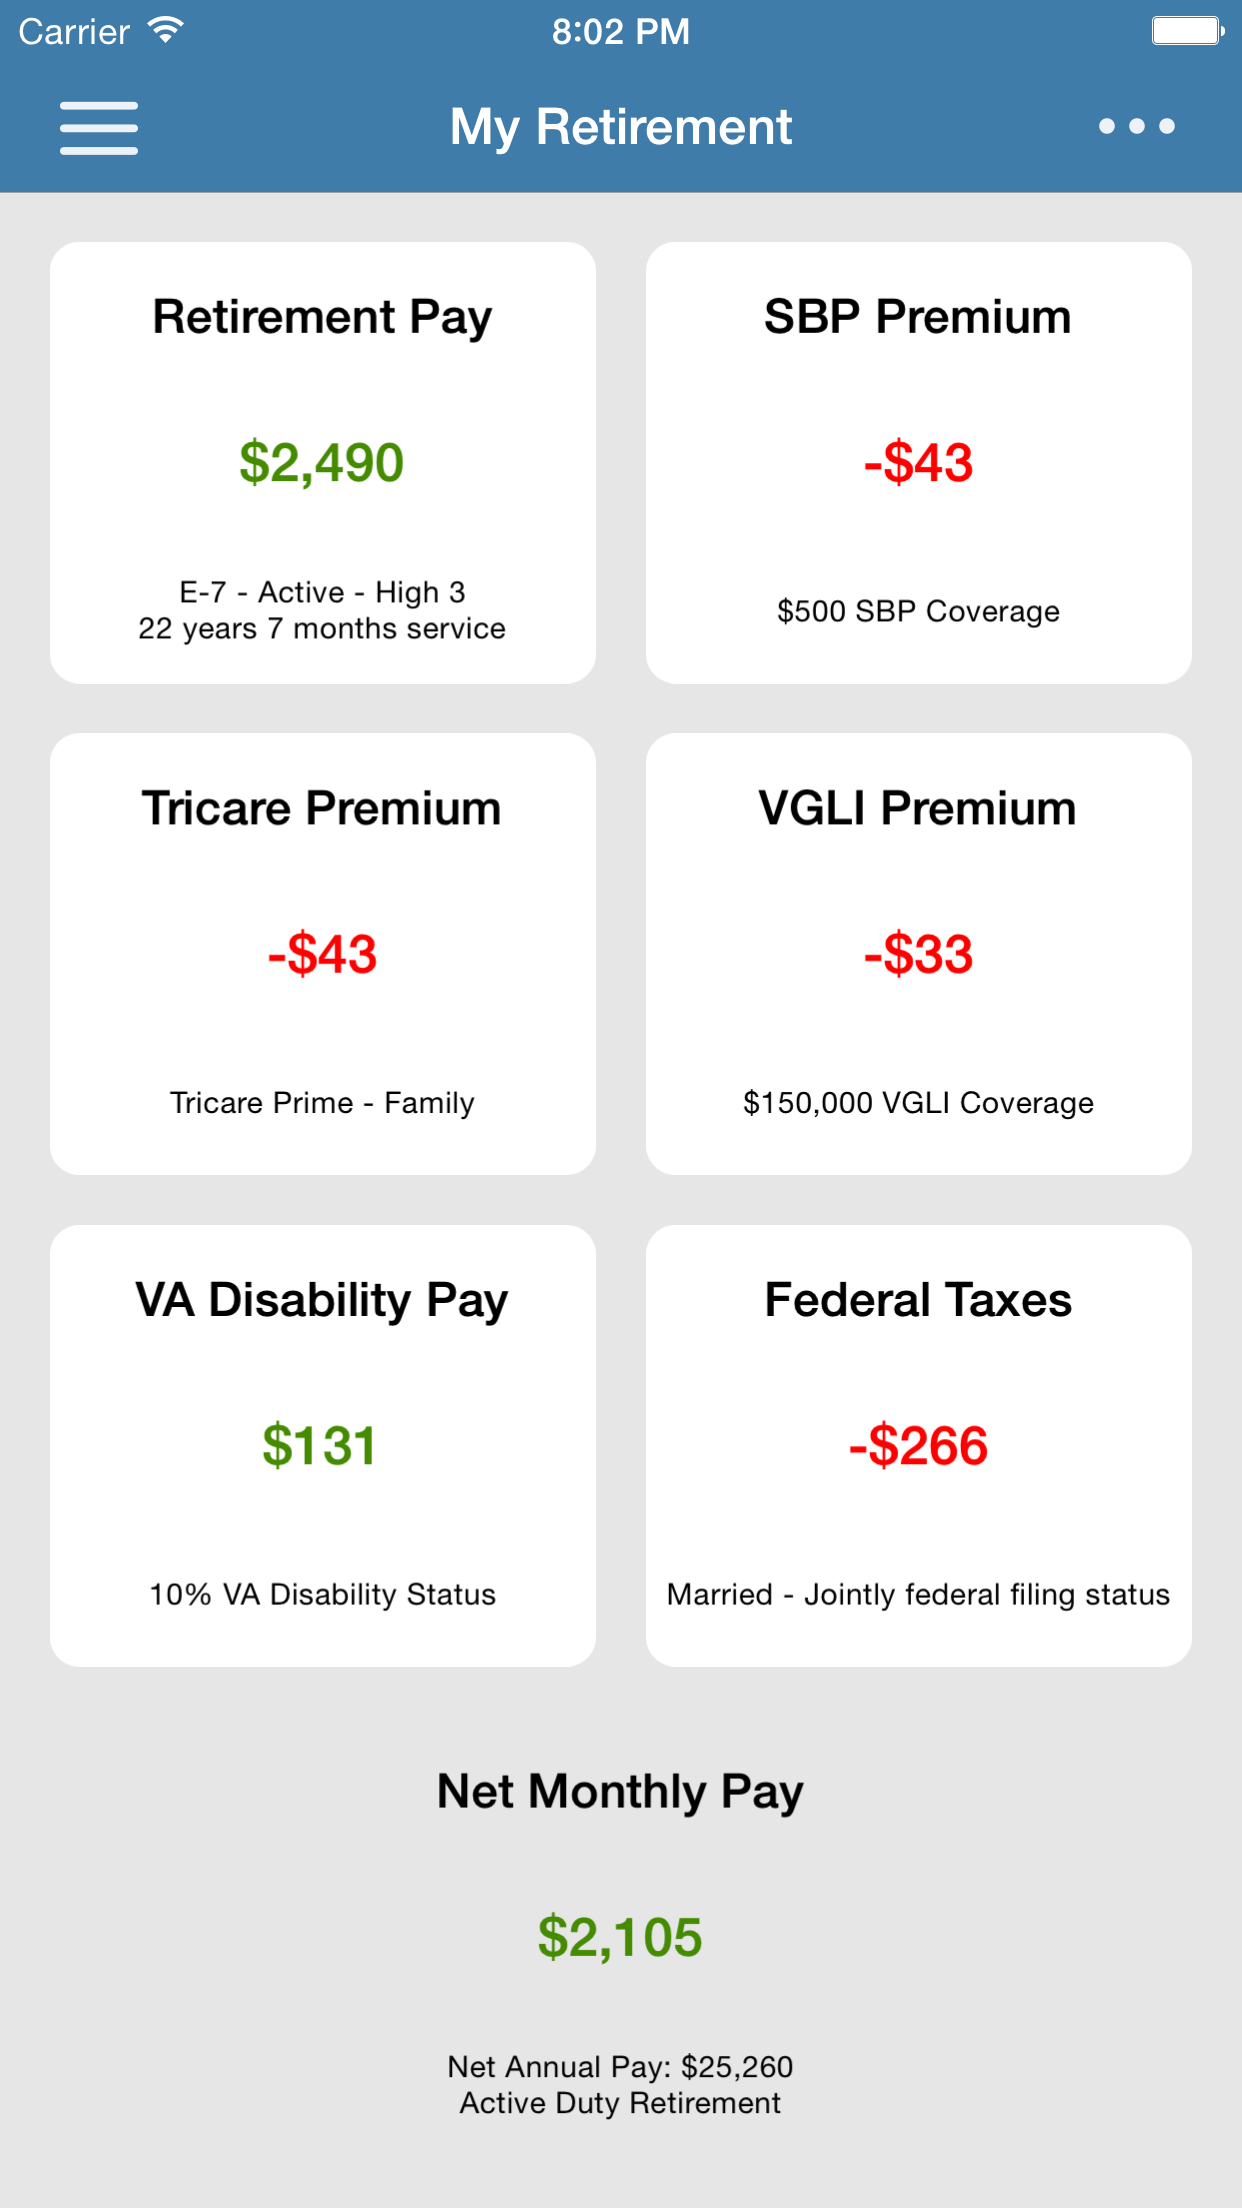
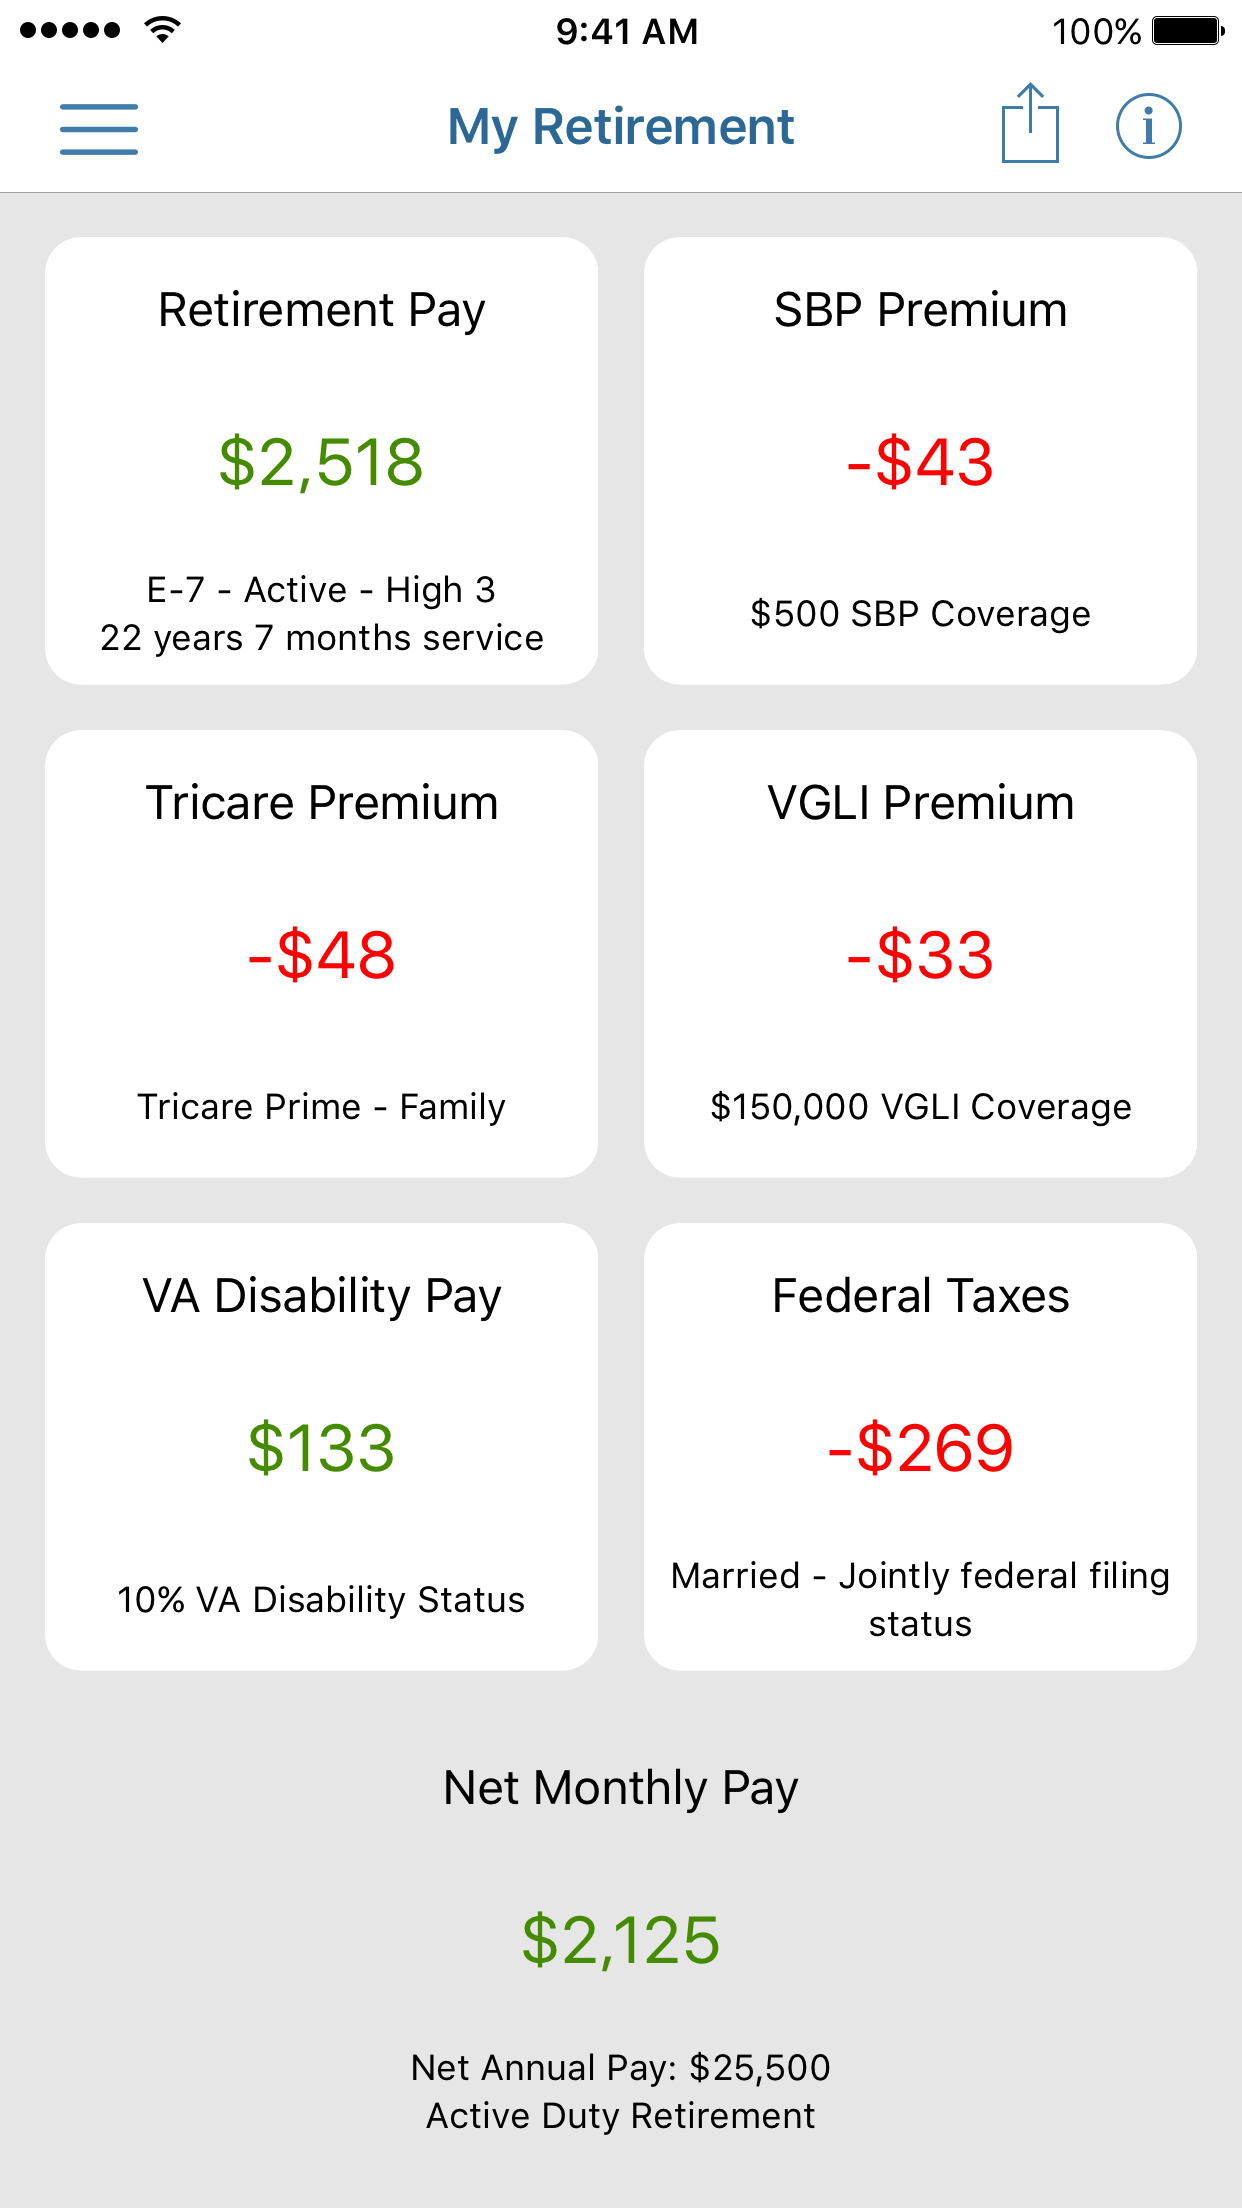
Updating screen shots and some updated CSS for better styling.

diff --git a/_sass/_base.scss b/_sass/_base.scss
@@ -52,7 +52,8 @@
         text-align: left;
         display: inline-block;
         padding-top: $spacing-unit;
-        
+        flex: 1 1 50%;
+
         ul {
             display: block;
             margin: 0;
@@ -62,7 +63,8 @@
     }
 
     div.row {
-        display: inline-block;
+        display: flex;
+        flex-wrap: wrap;
     }
 
     figure > img {
@@ -71,6 +73,16 @@
 
     figcaption {
         font-size: $small-font-size;
+    }
+
+    .screen-shots {
+        display: flex;
+        justify-content: flex-start;
+        overflow-y: auto;
+
+        .screen-shot {
+            margin: 5px;
+        }
     }
 
 /* Lists
@@ -174,6 +186,14 @@
             padding-right: $spacing-unit / 2;
             padding-left: $spacing-unit / 2;
         }
+
+        @media only screen and (max-width: 1024px) {
+            max-width: 85%;
+        }
+
+        @media only screen and (max-width: 768px) {
+            max-width: 100%;
+        }
     }
 
 /* Clear Fix
@@ -200,7 +220,7 @@
     }
 
     :not(.highlight)>table tr {
-        background-color: #fff;
+        background-color: transparent;
         border-top: 0px solid #ccc
     }
 

diff --git a/css/main.scss b/css/main.scss
@@ -14,7 +14,7 @@ $spacing-unit:     30px;
 
 $text-color:       #454545;
 $background-color: #FFF;
-$brand-color:      #40A8C9;
+$brand-color:      #3aafcd;
 
 $grey-color:       #828282;
 $grey-color-light: lighten($grey-color, 30%);

diff --git a/index.md b/index.md
@@ -35,19 +35,16 @@ layout: default
 </div>
 </div>
 
-{::comment}
-WHY CAN I NOT GET THIS TO WORK???
-![icon](/assets/military_retire_icon.png)
-
-## Military Retirement will calculate:
-- RETIREMENT PAY : Based on Rank, Years and Months of Service, and Date of Retirement 
-- SURVIVOR BENEFIT PLAN : Benefit and Premium 
-- TRICARE MEDICAL INSURANCE : Options and Premium 
-- DISABILITY PAY : Based on disability rating 
-- VETERANS GROUP LIFE INSURANCE : Coverage and Premium 
-- FEDERAL TAXES : Based on filing status
-{:/comment}
-
 ## Screen Shots
 
-|[![](/assets/military_retire_main.png)](/assets/military_retire_main.png)|[![](/assets/military_retire_ret_pay.png)](/assets/military_retire_ret_pay.png)|[![](/assets/military_retire_side.png)](/assets/military_retire_side.png)
+<div class="screen-shots">
+	<div class="screen-shot">
+		<a href="/assets/military_retire_main.png"><img src="/assets/military_retire_main.png" alt=""></a>
+	</div>
+	<div class="screen-shot">
+		<a href="/assets/military_retire_ret_pay.png"><img src="/assets/military_retire_ret_pay.png" alt=""></a>
+	</div>
+	<div class="screen-shot">
+		<a href="/assets/military_retire_side.png"><img src="/assets/military_retire_side.png" alt=""></a>
+  </div>
+</div>
